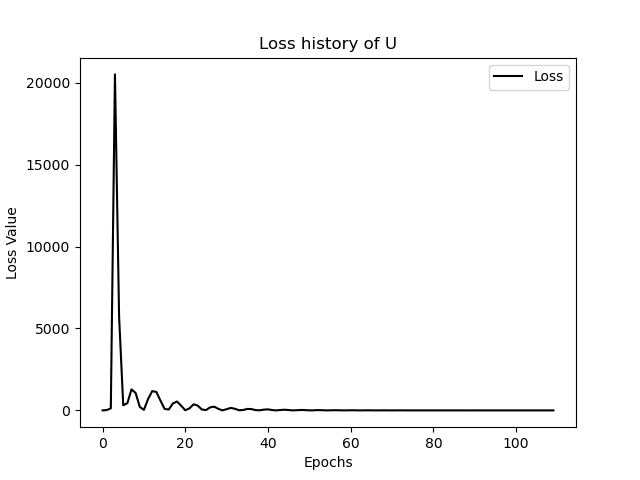
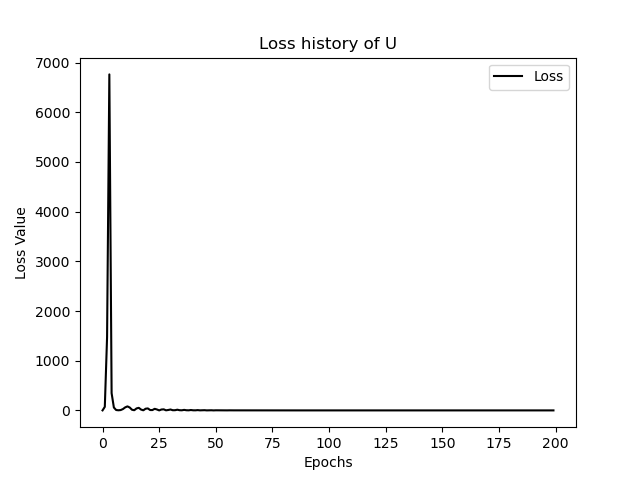
fnn_u.py updated and u vel retrained

diff --git a/FNN/FNN_U.py b/FNN/FNN_U.py
@@ -22,6 +22,9 @@ import numpy as np
 from pathlib import Path
 from torch.utils.data import Dataset
 
+from idxList import idxList
+from idxList import numOfAllCases
+
 class FSimDataset(Dataset):
   def __init__(self, file:Path, caseList:list):
     """
@@ -92,16 +95,15 @@ class FSimDataset(Dataset):
     print("Todo: .plotVTK(...)")
     pass
 
-# split the data, 27 = 22 + 5
-numOfCases = 27
+# split the data, 49 = 40 + 9
+numOfCases = numOfAllCases
 ratioTest = 0.2
 
 sizeOfTestSet = np.int64(numOfCases * ratioTest)
 
+# 其它整数也可
 np.random.seed(42)
 permut = np.random.permutation(numOfCases)
-
-from idxList import idxList
 
 listTestCase = []
 for i in permut[:sizeOfTestSet]:
@@ -428,9 +430,9 @@ R.saveLossHistory2PNG()
 fsDataset_test = FSimDataset(filePathH5, listTestCase)
 
 #len_test = fsDataset_test.numCases
-# for C025
+# for C034
 inp, uField, coords = fsDataset_test[0]
-#print(type(inp), type(pField))
+#print(type(inp), type(uField))
 
 #outPresTorch = R.forward(inp)
 
